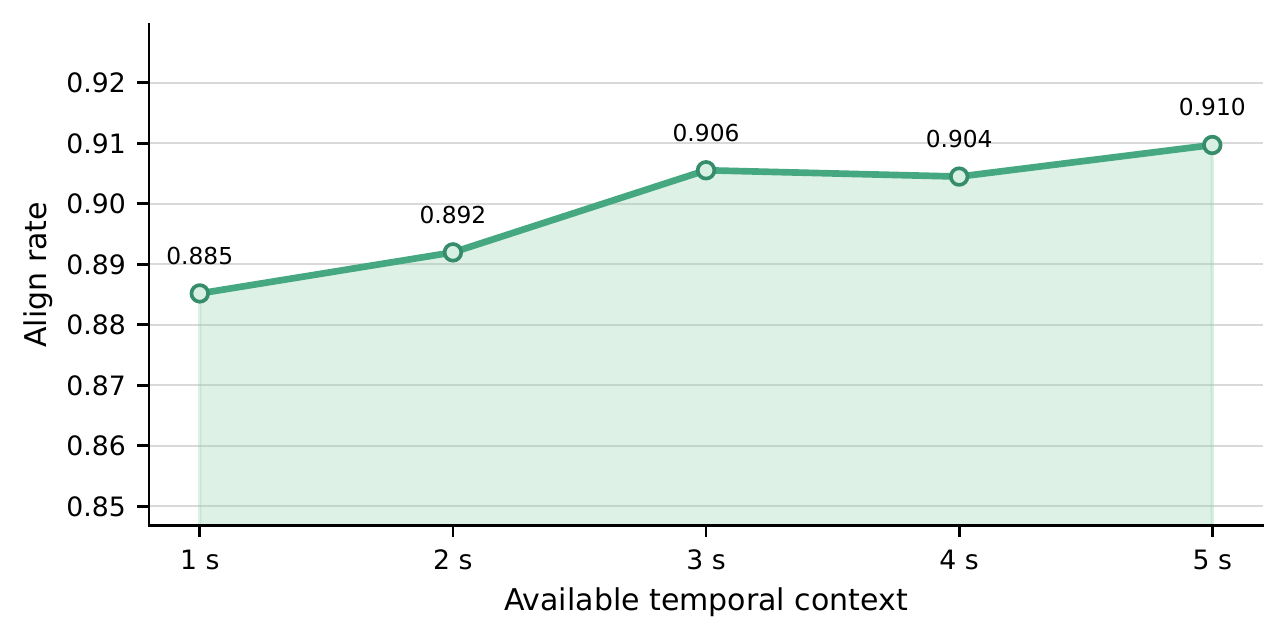
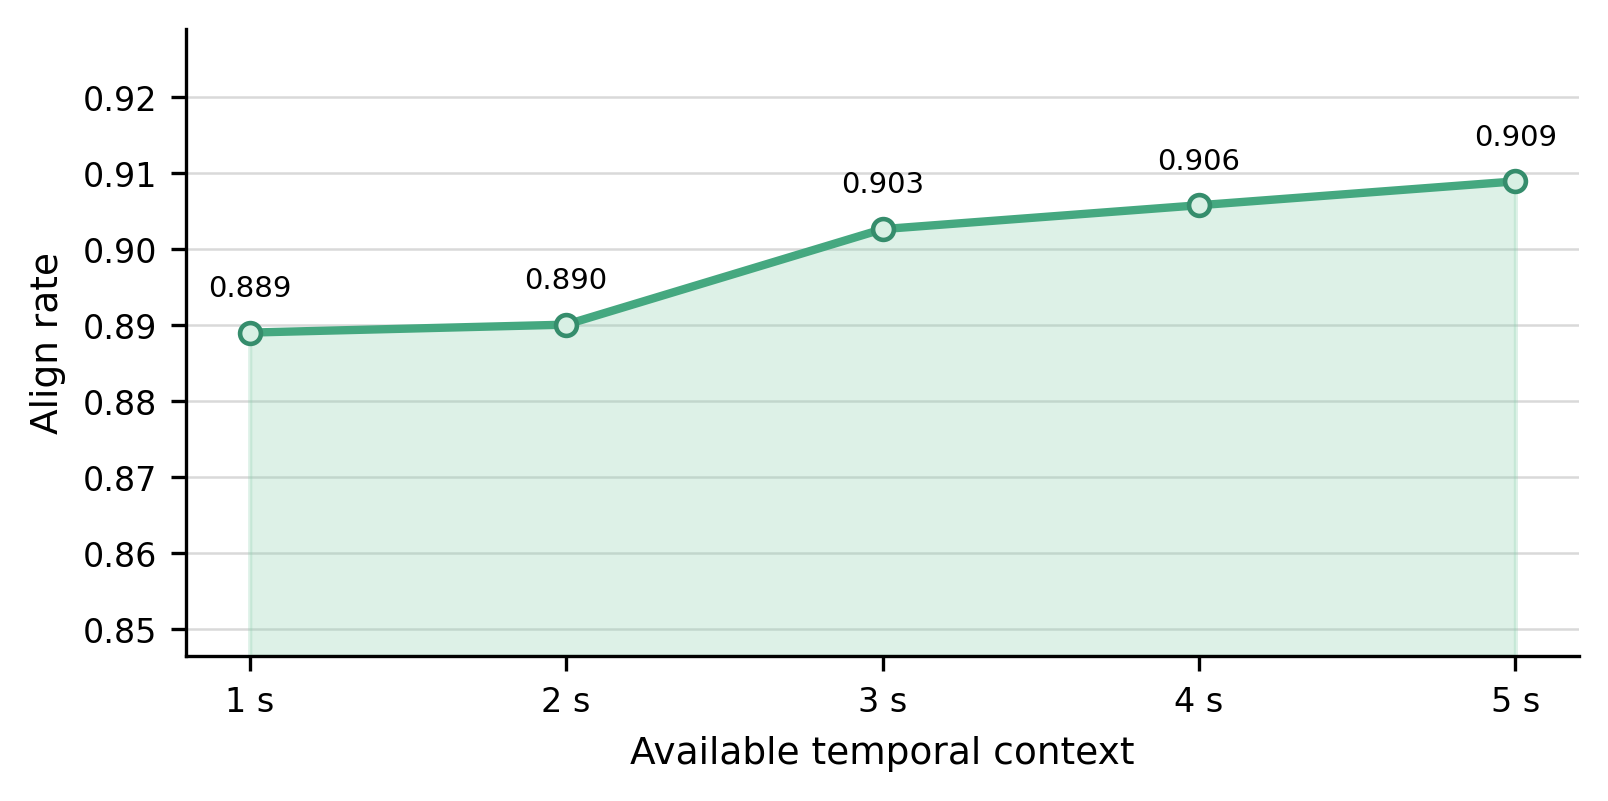
Sync HumanTracker page with latest paper

diff --git a/humantracker/index.html b/humantracker/index.html
@@ -2,7 +2,7 @@
 <html lang="en">
 <head>
   <meta charset="utf-8">
-  <meta name="description" content="HumanTracker introduces a 150-hour humanoid motion tracking benchmark and HumanScore, a preference-aligned metric for evaluating trajectory quality.">
+  <meta name="description" content="HumanTracker introduces a 153-hour humanoid motion tracking benchmark and HumanScore, a preference-aligned metric for evaluating trajectory quality.">
   <meta name="keywords" content="HumanTracker, HumanScore, humanoid, motion tracking, benchmark, reward model, robotics">
   <meta name="viewport" content="width=device-width, initial-scale=1">
   <meta name="theme-color" content="#f1f6f2">
@@ -10,7 +10,7 @@
 
   <meta property="og:type" content="website">
   <meta property="og:title" content="HumanTracker: Towards Comprehensive and Human-Aligned Motion Tracking Benchmark">
-  <meta property="og:description" content="150+ hours of categorized motion capture and a preference-aligned metric for humanoid motion tracking.">
+  <meta property="og:description" content="Approximately 153 hours of categorized optical motion and a preference-aligned metric for humanoid motion tracking.">
   <meta property="og:url" content="https://dairuliu.github.io/humantracker/">
   <meta property="og:image" content="https://dairuliu.github.io/humantracker/static/images/teaser.webp">
   <meta name="twitter:card" content="summary_large_image">
@@ -128,16 +128,16 @@
           </div>
           <div class="column is-5">
             <div class="key-claim">
-              <span class="key-value">90.97%</span>
-              <span class="key-label">alignment with held-out human preferences</span>
-              <span class="key-note">6.21 points above the strongest conventional diagnostic.</span>
+              <span class="key-value">90.89%</span>
+              <span class="key-label">alignment with human preferences on the test set</span>
+              <span class="key-note">6.18 points above the strongest conventional diagnostic.</span>
             </div>
           </div>
         </div>
 
         <div class="stat-grid" aria-label="Benchmark highlights">
-          <div class="stat"><strong>150+</strong><span>hours of optical motion</span></div>
-          <div class="stat"><strong>24.6K</strong><span>labeled motion clips</span></div>
+          <div class="stat"><strong>153</strong><span>hours of optical motion</span></div>
+          <div class="stat"><strong>25K</strong><span>labeled motion clips</span></div>
           <div class="stat"><strong>24</strong><span>professional performers</span></div>
           <div class="stat"><strong>4</strong><span>diagnostic motion families</span></div>
         </div>
@@ -153,33 +153,33 @@
         <div class="columns is-variable is-7 is-vcentered method-block">
           <div class="column is-7">
             <figure class="method-figure">
-              <img src="./static/images/humanscore-architecture.png" loading="lazy" alt="HumanScore trajectory model from the paper: preference learning and masked temporal trajectory scoring">
+              <img src="./static/images/humanscore-architecture.png" width="2085" height="1203" loading="lazy" alt="HumanScore trajectory reward model from the paper with a temporal Transformer and masked max pooling">
             </figure>
           </div>
           <div class="column is-5">
             <div class="content method-copy">
-              <p><strong>6,000 comparisons.</strong> Human annotations cover 12,000 synchronized tracker trajectories with strict preferences, ties, and cannot-compare pairs.</p>
+              <p><strong>12K motion pairs.</strong> Human annotations cover 24K motions with strict preferences, similar judgments, and cannot-compare pairs.</p>
               <p><strong>Five-second context.</strong> Each 250-frame window is encoded as an 850-dimensional trajectory token sequence with explicit padding masks.</p>
-              <p><strong>Readable output.</strong> Raw reward-model predictions are calibrated to a 0–100 HumanScore within each evaluation setting.</p>
+              <p><strong>Readable output.</strong> Window logits pass through a sigmoid, failed remainder windows score zero, and the trajectory average is reported from 0 to 100.</p>
             </div>
           </div>
         </div>
 
         <div class="evidence-grid">
           <div class="alignment-card">
-            <h3>Held-out preference alignment</h3>
-            <div class="metric-row"><span>HumanScore</span><div class="bar"><i style="width: 90.97%"></i></div><strong>90.97</strong></div>
-            <div class="metric-row"><span>KPT position MAE</span><div class="bar"><i style="width: 84.76%"></i></div><strong>84.76</strong></div>
-            <div class="metric-row"><span>Joint velocity error</span><div class="bar"><i style="width: 84.66%"></i></div><strong>84.66</strong></div>
-            <div class="metric-row"><span>Foot contact accuracy</span><div class="bar"><i style="width: 82.78%"></i></div><strong>82.78</strong></div>
-            <div class="metric-row"><span>MPJPE</span><div class="bar"><i style="width: 81.73%"></i></div><strong>81.73</strong></div>
-            <p>Alignment rate (%) on 1,916 strict, motion-disjoint preference pairs.</p>
+            <h3>Test set preference alignment</h3>
+            <div class="metric-row"><span>HumanScore</span><div class="bar"><i style="width: 90.89%"></i></div><strong>90.89</strong></div>
+            <div class="metric-row"><span>KPT position MAE</span><div class="bar"><i style="width: 84.71%"></i></div><strong>84.71</strong></div>
+            <div class="metric-row"><span>Joint velocity error</span><div class="bar"><i style="width: 84.61%"></i></div><strong>84.61</strong></div>
+            <div class="metric-row"><span>Foot contact accuracy</span><div class="bar"><i style="width: 82.93%"></i></div><strong>82.93</strong></div>
+            <div class="metric-row"><span>MPJPE</span><div class="bar"><i style="width: 81.68%"></i></div><strong>81.68</strong></div>
+            <p>Alignment rate (%) on 955 independent, unaugmented, strict-preference comparisons in the motion-disjoint test set.</p>
           </div>
           <div class="ablation-card">
             <h3>What the model uses</h3>
             <div class="ablation-images">
-              <figure><img src="./static/images/masking-ablation.png" width="1288" height="644" loading="lazy" alt="HumanScore feature masking ablation from the paper"><figcaption>Contact and reference features contribute complementary evidence.</figcaption></figure>
-              <figure><img src="./static/images/temporal-ablation.png" width="1288" height="643" loading="lazy" alt="HumanScore temporal context ablation from the paper"><figcaption>Longer temporal context captures sliding, drift, and recovery.</figcaption></figure>
+              <figure><img src="./static/images/masking-ablation.png" width="1608" height="804" loading="lazy" alt="HumanScore feature masking analysis on the test set"><figcaption>Contact and reference features contribute complementary evidence.</figcaption></figure>
+              <figure><img src="./static/images/temporal-ablation.png" width="1608" height="801" loading="lazy" alt="HumanScore temporal context analysis on the test set"><figcaption>Longer temporal context captures sliding, drift, and recovery.</figcaption></figure>
             </div>
           </div>
         </div>
@@ -350,17 +350,17 @@
           <article class="family-card daily">
             <h3>Daily</h3>
             <p>Steady locomotion, turning, and routine gestures reveal stability and residual drift.</p>
-            <dl><div><dt>Hours</dt><dd>93.73</dd></div><div><dt>Clips</dt><dd>10,304</dd></div></dl>
+            <dl><div><dt>Hours</dt><dd>89.29</dd></div><div><dt>Clips</dt><dd>9,739</dd></div></dl>
           </article>
           <article class="family-card dynamic">
             <h3>Highly Dynamic</h3>
             <p>Jumps, kicks, acrobatics, and fast footwork stress impact handling and phase timing.</p>
-            <dl><div><dt>Hours</dt><dd>9.98</dd></div><div><dt>Clips</dt><dd>1,630</dd></div></dl>
+            <dl><div><dt>Hours</dt><dd>11.01</dd></div><div><dt>Clips</dt><dd>2,676</dd></div></dl>
           </article>
           <article class="family-card interaction">
             <h3>Interaction</h3>
             <p>Object and human interactions require end-effector timing with whole-body stabilization.</p>
-            <dl><div><dt>Hours</dt><dd>43.01</dd></div><div><dt>Clips</dt><dd>11,068</dd></div></dl>
+            <dl><div><dt>Hours</dt><dd>47.78</dd></div><div><dt>Clips</dt><dd>10,940</dd></div></dl>
           </article>
           <article class="family-card ground">
             <h3>Ground</h3>
@@ -403,9 +403,10 @@
           <pre id="bibtex"><code>@misc{liu2026humantracker,
   title  = {HumanTracker: Towards Comprehensive and Human-Aligned
             Motion Tracking Benchmark},
-  author = {Liu, Dairu and Qi, Zekun and Zeng, Jiayu and Guan, Yu and
-            Lin, Chenghuai and Chen, Xuchuan and Yu, Xinqiang and
-            Zhang, Wenyao and Wang, He and Yi, Li},
+  author = {Liu, Dairu and Qi, Zekun and Zeng, Jiayu and Yu, Ruixi and
+            Guan, Yu and Zhang, Yintianrun and Chen, Xuchuan and
+            Liang, Sikai and Li, Zekai and Lin, Chenghuai and
+            Yu, Xinqiang and Zhang, Wenyao and Wang, He and Yi, Li},
   year   = {2026}
 }</code></pre>
         </div>
@@ -416,7 +417,7 @@
   <footer class="footer site-footer">
     <div class="container page-container">
       <div class="footer-grid">
-        <p><strong>HumanTracker</strong><br>Towards comprehensive and human-aligned motion tracking evaluation.</p>
+        <p><strong>HumanTracker</strong><br>Towards Comprehensive and Human-Aligned Motion Tracking Benchmark.</p>
         <p class="footer-credit">
           Website template adapted from <a href="https://github.com/nerfies/nerfies.github.io">Nerfies</a>.<br>
           Site source is licensed under <a href="https://creativecommons.org/licenses/by-sa/4.0/">CC BY-SA 4.0</a>.
